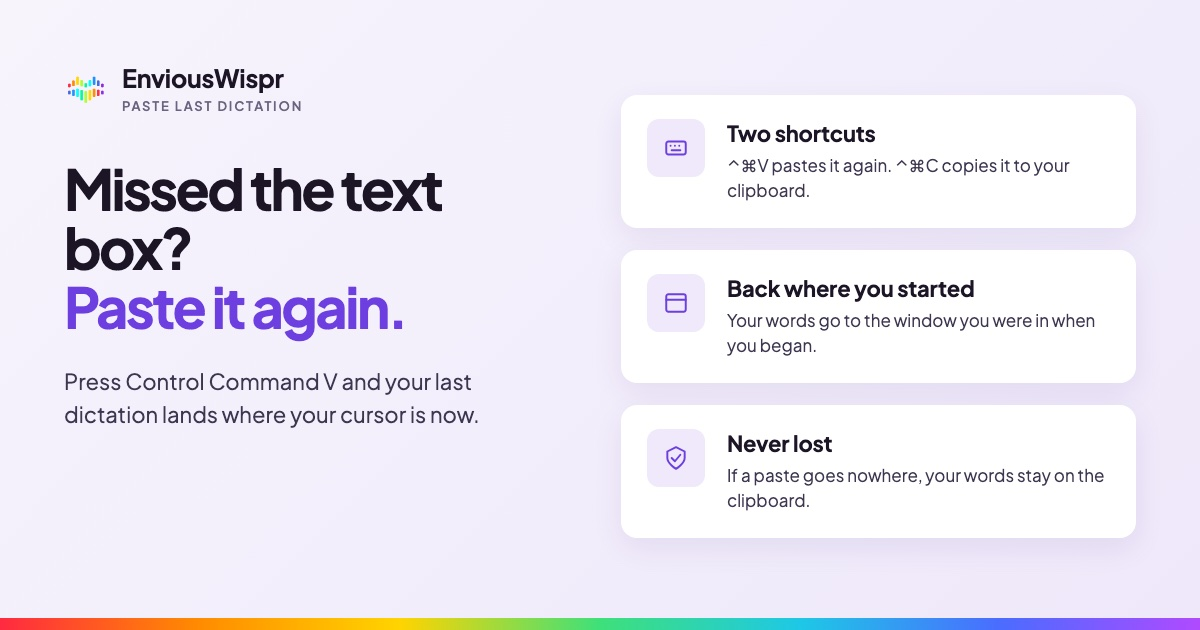
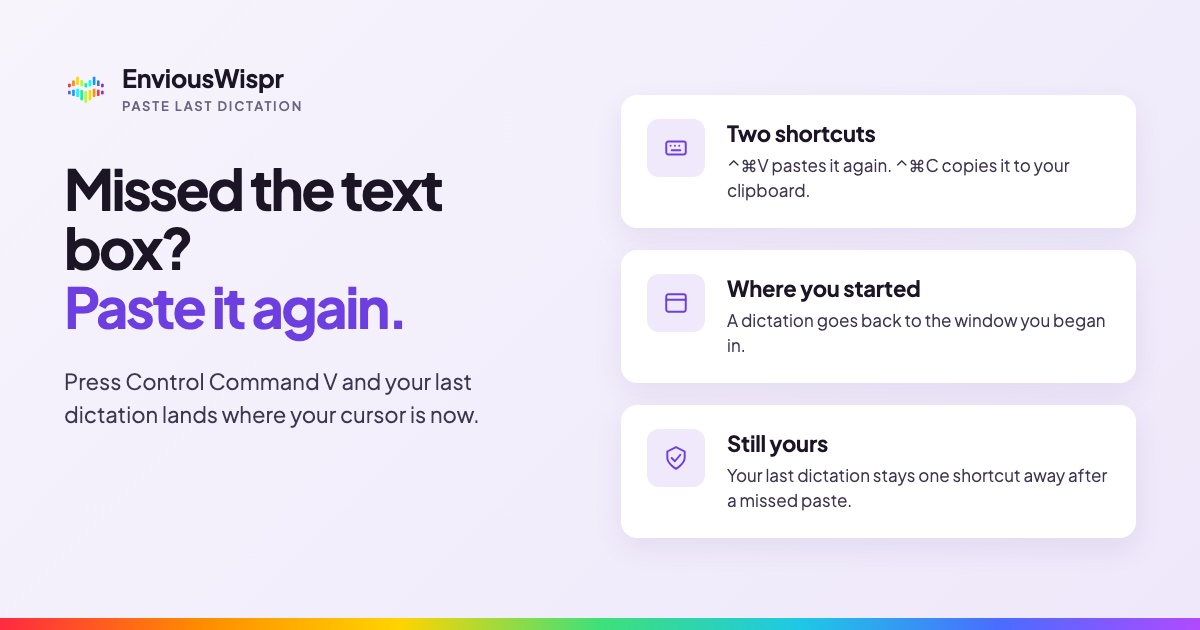
fix(website): every new promise carries the exception its help article states
Codex review round 1 (3 findings) and the kb-content-auditor pass (5 high,
3 low) found one class: a claim stated without the condition the owning
help article attaches to it. All fixed, then the class was swept across
the seven new pages for absolute words (always, every, never, whatever,
any, all, exactly, nothing, whole):

- Paste Last Dictation page: the original delivery goes to the starting
  window; Paste Last Dictation goes where the cursor is now (said
  explicitly). The Copied notice appears when every method fails, and in
  most apps when a miss is visible; some apps hide a miss.
- Pause article: Pause can fall back to Music and Spotify only after a
  macOS update, with a first unpaused take; a volume the user changes
  mid-take stays; some outputs (HDMI) cannot be turned down; Lower makes
  music quieter rather than keeping it out. The unsupported "gentler
  choice" line is gone.
- Paste article: "never lost" and "it is on your clipboard" are scoped;
  History does not save a recording with no speech.
- Smart Formatting page and developer article: spoken number conversion is
  English; addresses, links and codes cover eight more languages.
- Languages page: eight languages, not every language, for local-word
  addresses; WhisperKit is for languages Parakeet does not cover; a name
  at the start of a sentence can still change; the full filler-word
  language list from help/filler-word-removal.md.
[…]

Changed region(s): [[0.5858, 0.4222, 0.925, 0.573], [0.5858, 0.6937, 0.925, 0.8143]]

diff --git a/website/src/data/features/films.js b/website/src/data/features/films.js
@@ -33,7 +33,7 @@ export const SCENES = {
   formatting: [
     { label: 'Versions', title: 'Version numbers, whole.', where: 'On your Mac', raw: 'ship version two point five point zero tonight', out: 'Ship version 2.5.0 tonight.', raw_marks: ['version two point five point zero'], out_marks: ['version 2.5.0'], saved: 'Version number', explain: 'Formatted on your Mac, before any AI polish.' },
     { label: 'Hosts', title: 'Hosts and ports.', where: 'On your Mac', raw: 'the app runs on localhost colon three thousand', out: 'The app runs on localhost:3000.', raw_marks: ['localhost colon three thousand'], out_marks: ['localhost:3000'], saved: 'Host and port', explain: 'Formatted on your Mac, before any AI polish.' },
-    { label: 'Commands', title: 'Slash commands.', where: 'On your Mac', raw: 'type slash clear and start again', out: 'Type /clear and start again.', raw_marks: ['slash clear'], out_marks: ['/clear'], saved: 'Slash command', explain: 'Works with Spoken punctuation on or off.' },
+    { label: 'Commands', title: 'Slash commands.', where: 'On your Mac', raw: 'type slash clear and start again', out: 'Type /clear and start again.', raw_marks: ['slash clear'], out_marks: ['/clear'], saved: 'Slash command', explain: 'Works with Convert spoken punctuation on or off.' },
     { label: 'Dates', title: 'Dates in the format you asked for.', where: 'On your Mac', raw: 'the release is twenty twenty six dash nine dash twenty six', out: 'The release is 2026-09-26.', raw_marks: ['twenty twenty six dash nine dash twenty six'], out_marks: ['2026-09-26'], saved: 'Dashed date', explain: 'Formatted on your Mac, before any AI polish.' },
   ],
   // Languages (2.5.1 What's New): British spelling and addresses said with each

diff --git a/website/src/content/blog/pause-music-while-dictating-mac.md b/website/src/content/blog/pause-music-while-dictating-mac.md
@@ -14,13 +14,13 @@ keywords:
   - "spotify pauses when dictating"
 faqs:
   - question: "Can my Mac pause music automatically while I dictate?"
-    answer: "Yes, with EnviousWispr, a free dictation app for Mac. Open Settings, Microphone, and under Media during dictation choose Pause. Whatever is playing, such as Spotify, Music, a YouTube tab or a podcast app, pauses when you start dictating and resumes when you stop."
+    answer: "Yes, with EnviousWispr, a free dictation app for Mac. Open Settings, Microphone, and under Media during dictation choose Pause. What was playing, such as Spotify, Music, a YouTube tab or a podcast app, pauses when you start dictating and resumes when you stop. If a macOS update turns off the part of macOS it uses for this, Pause falls back to Music and Spotify only, and the Microphone page says so."
   - question: "What is the difference between Lower, Mute and Pause?"
-    answer: "Lower turns your current speakers or headphones down to about half for the whole take and puts the volume back after. Mute silences that output for the take. Pause stops whatever was playing and resumes it when you finish. Continue, the starting choice, leaves your audio alone."
+    answer: "Lower turns your current speakers or headphones down to about half for the whole take and puts the volume back after, unless you changed the volume yourself during the take. Mute silences that output for the take. Pause stops what was playing and resumes it when you finish. Continue, the starting choice, leaves your audio alone."
   - question: "Will Lower or Mute also quiet a video call?"
     answer: "Yes. Lower and Mute act on everything your Mac plays through that output, including a call in progress and spoken feedback from a screen reader. Pause only affects what was playing when you started."
   - question: "Why does background music affect dictation at all?"
-    answer: "If your speakers are playing music, your microphone can pick it up alongside your voice, especially on a laptop's built-in mic. Getting the music out of the way while you talk keeps that sound out of the recording."
+    answer: "If your speakers are playing music, your microphone can pick it up alongside your voice. Pausing or muting the music while you talk keeps that sound out of the recording, and lowering it makes it quieter."
 ---
 
 You are listening to a playlist, you press your dictation key, and you start talking over the chorus. The microphone hears both of you. Or you are wearing headphones and realise halfway through a sentence that you cannot hear yourself think over the podcast.
@@ -34,9 +34,9 @@ Click the EnviousWispr icon in your menu bar, choose **Settings**, and go to **M
 | Choice | What it does while you dictate | When you stop |
 |---|---|---|
 | **Continue** | Leaves your audio playing as it is | Nothing to undo |
-| **Lower** | Turns your current speakers or headphones down to about half | Puts the volume back exactly where it was |
-| **Mute** | Silences your current speakers or headphones | Puts the volume back |
-| **Pause** | Pauses whatever is playing: Spotify, Music, a YouTube tab, a podcast app | Resumes the same song or video |
+| **Lower** | Turns your current speakers or headphones down to about half | Puts the volume back where it was, unless you changed it during the take |
+| **Mute** | Silences your current speakers or headphones | Puts the volume back, unless you changed it during the take |
+| **Pause** | Pauses what is playing: Spotify, Music, a YouTube tab, a podcast app | Resumes the same song or video, if it is still the paused item |
 
 It starts on **Continue**, so nothing changes until you choose another option.
 
@@ -44,7 +44,7 @@ It starts on **Continue**, so nothing changes until you choose another option.
 
 **Pause** suits music and podcasts, where you would rather not miss anything. The same song or episode picks up where it stopped. Only what was playing when you started is paused; anything you start during the dictation keeps going.
 
-**Lower** suits background music you do not mind hearing faintly, and it is a gentler choice when you dictate often in short bursts.
+**Lower** suits background music you do not mind hearing faintly.
 
 **Mute** is the simplest when you want silence and do not care where the music was.
 
@@ -52,7 +52,10 @@ It starts on **Continue**, so nothing changes until you choose another option.
 
 - **Lower and Mute act on the whole output.** They quiet everything your Mac plays through those speakers or headphones, including a call in progress and spoken feedback from a screen reader.
 - **The output is the one in use when you start.** If you switch from speakers to headphones halfway through a dictation, the new output is not lowered or muted.
-- **It keeps sound out of your recording.** On a laptop's built-in microphone, music from the speakers can end up in the recording alongside your voice. Pausing or lowering it while you talk keeps that sound out.
+- **Your own volume change wins.** If you change the volume yourself during a take, your new level stays. EnviousWispr only puts the volume back when it is still at the level it set.
+- **Pause can fall back to Music and Spotify.** Pause reaches every player through a part of macOS that Apple has not opened up to apps. If a macOS update turns that off, EnviousWispr falls back to pausing Music and Spotify only, and the Microphone page says so. On that fallback, macOS asks the first time whether EnviousWispr may control Music or Spotify; that first take is not paused, and every take after you allow it is.
+- **Some outputs cannot be turned down.** A display over HDMI, for example, does not let apps change its volume. The Microphone page tells you when Lower or Mute is not available on your current output.
+- **It helps keep music out of your recording.** Music from your speakers can end up in the recording alongside your voice. Pause and Mute keep it out; Lower makes it quieter.
 
 ## Other things that help a clean recording
 

diff --git a/website/src/content/blog/british-spelling-dictation-mac.md b/website/src/content/blog/british-spelling-dictation-mac.md
@@ -16,7 +16,7 @@ faqs:
   - question: "How do I get British spelling from dictation on a Mac?"
     answer: "In EnviousWispr, a free dictation app for Mac, open Settings, Transcription, Language, switch off Auto-detect language, click Change and choose English (UK). Your next dictation writes colour, centre and organise instead of the American spellings."
   - question: "Why does my speech-to-text app spell colour as color?"
-    answer: "The speech engines EnviousWispr runs, Parakeet and WhisperKit, both write English with American spelling. They hear you correctly; the spelling is the one they learned. A separate step after transcription is what turns it into British spelling."
+    answer: "The speech engines EnviousWispr runs, Parakeet and WhisperKit, both write English with American spelling. They hear you correctly and spell the word the American way. A separate step after transcription is what turns it into British spelling."
   - question: "Does British spelling still work with AI polish on?"
     answer: "Yes. EnviousWispr changes the spelling before AI polish runs and checks it again after, which catches American spelling that a polish model puts back. It works with polish on or off, and in Transcribe a File too."
   - question: "Which words does it leave alone?"
@@ -29,9 +29,9 @@ This post explains why that happens and how to make dictation on your Mac write 
 
 ## Why dictation writes American spelling
 
-Modern speech engines learn to write from huge amounts of text, and most of that text uses American spelling. So when you say "colour", the engine hears the word perfectly and then writes the spelling it has seen most often: "color".
+Both speech engines write English with American spelling. When you say "colour", the engine hears the word correctly and writes "color", most likely because American spelling dominates the text such models learn from.
 
-The two engines EnviousWispr runs on your Mac, Parakeet and WhisperKit, both behave this way. Your accent has nothing to do with it. A speaker from Leeds and a speaker from Boston get the same spelling, because the spelling is a writing habit, not a listening one. The spelling differences themselves are well documented; [Wikipedia's page on them](https://en.wikipedia.org/wiki/American_and_British_English_spelling_differences) is a good overview.
+The two engines EnviousWispr runs on your Mac, Parakeet and WhisperKit, both behave this way. Your accent has nothing to do with it. A speaker from Leeds and a speaker from Boston get the same spelling, because the spelling comes from the engine, not from your voice. The spelling differences themselves are well documented; [Wikipedia's page on them](https://en.wikipedia.org/wiki/American_and_British_English_spelling_differences) is a good overview.
 
 ## How to switch to British spelling
 
@@ -51,7 +51,7 @@ The conversion covers the everyday spelling families: -our words (colour, favour
 |---|---|
 | AI polish is on | Spelling is changed before polish and checked again after, so a polish model cannot quietly put "color" back |
 | A word whose spelling depends on meaning | Left as you said it: program, check, practice, license, meter, story and tire |
-| A name in the middle of a sentence | Kept as written, so "Kennedy Center" stays "Center" |
+| A name in the middle of a sentence | Kept as written, so "Kennedy Center" stays "Center" (a name at the very start of a sentence can still change) |
 | A word in your Custom Words | Kept exactly as you saved it |
 | Vocabulary | Unchanged: "apartment" stays "apartment", it does not become "flat" |
 | Auto-detect is on | American spelling, because British spelling needs English (UK) chosen |
@@ -68,4 +68,4 @@ British spelling is one part of a wider set of language options. Parakeet recogn
 
 ## The takeaway
 
-Dictation writes American spelling because that is what speech engines learned, not because of how you speak. Choose English (UK) as your dictation language in EnviousWispr and it writes colour, centre and organise from the first word, including when AI polish is cleaning up the text.
+Dictation writes American spelling because that is how the speech engines spell English, not because of how you speak. Choose English (UK) as your dictation language in EnviousWispr and it writes colour, centre and organise from the first word, including when AI polish is cleaning up the text.

diff --git a/website/src/content/blog/dictation-pasted-nowhere-get-your-words-back.md b/website/src/content/blog/dictation-pasted-nowhere-get-your-words-back.md
@@ -14,7 +14,7 @@ keywords:
   - "get dictation back mac"
 faqs:
   - question: "Where did my dictation go if nothing appeared on screen?"
-    answer: "In EnviousWispr, a free dictation app for Mac, a dictation that could not be delivered is left on your clipboard, and a notice reading Copied. Press ⌘V to paste appears. Click into a text box and press Command V. Every dictation is also kept in History on your Mac, so it is never lost."
+    answer: "In EnviousWispr, a free dictation app for Mac, a dictation that could not be delivered is usually left on your clipboard, with a notice reading Copied. Press ⌘V to paste. Click into a text box and press Command V. Your dictations are also saved in History on your Mac, and Control Command V pastes the newest one again wherever your cursor is."
   - question: "How do I paste my last dictation again?"
     answer: "Click where the text belongs and press Control Command V, or choose Paste Last Dictation from the EnviousWispr menu bar menu. Your newest dictation is pasted where your cursor is now. Control Command C copies it to the clipboard instead."
   - question: "Why did my dictation paste into a different window than the one I was looking at?"
@@ -43,15 +43,15 @@ That covers most cases, but a few still leave the text with nowhere to go:
 - **The window closed.** You started in a chat window and closed it before the text was ready. EnviousWispr does not guess and paste into a different window instead.
 - **The app refused the text.** Some apps block typed input. EnviousWispr tries three ways to deliver: writing into the text box directly, a normal paste, and the app's own Edit, Paste menu.
 
-In each of those cases your words are put on the clipboard and a notice appears: **Copied. Press ⌘V to paste.** Nothing has been thrown away.
+When every delivery method fails, your words are put on the clipboard and a notice appears: **Copied. Press ⌘V to paste.** In most apps EnviousWispr does the same when it can see that a paste went nowhere, for example when no text box was selected. Some apps do not show enough about where your cursor is for it to tell, so a missed paste there shows nothing; your words are still in History, and Paste Last Dictation brings them back.
 
 ## Three ways to get the words back
 
 **1. Paste Last Dictation.** Click where the text belongs and press Control Command V. This is the fastest route, and it works even if you have copied something else since.
 
-**2. Paste from the clipboard.** If you saw the Copied notice and have not copied anything since, Command V works too.
+**2. Paste from the clipboard.** If you saw the Copied notice and have not copied anything since, Command V works too. If there was no notice, your clipboard may hold what you copied before, so use Paste Last Dictation instead.
 
-**3. Open History.** EnviousWispr saves every dictation on your Mac in History. Click the EnviousWispr icon in your menu bar, choose **Settings**, go to **History**, find the dictation, and copy or paste it from there. History is also where a cancelled recording can be kept, which is covered in the [History feature page](/features/history/).
+**3. Open History.** EnviousWispr saves your dictations on your Mac in History (a recording with no speech in it is not saved). Click the EnviousWispr icon in your menu bar, choose **Settings**, go to **History**, find the dictation, and copy or paste it from there. History is also where a cancelled recording can be kept, which is covered in the [History feature page](/features/history/).
 
 ## Saying it once, using it twice
 
@@ -71,6 +71,6 @@ Open **System Settings, Privacy & Security, Accessibility**, find EnviousWispr, 
 
 ## The takeaway
 
-A dictation that lands nowhere is not lost. It is on your clipboard, in your History, and one shortcut away. Click where it belongs and press Control Command V.
+A dictation that lands nowhere is not lost. It is usually on your clipboard, it is saved in your History, and it is one shortcut away. Click where it belongs and press Control Command V.
 
 If you want to see the feature on its own page, the [Paste Last Dictation page](/features/paste-last-dictation/) shows both shortcuts, and [How Text Gets Pasted Into Your App](/help/how-text-gets-pasted-into-your-app/) explains where every dictation is delivered and why.

diff --git a/website/src/content/blog/dictate-version-numbers-ports-slash-commands-mac.md b/website/src/content/blog/dictate-version-numbers-ports-slash-commands-mac.md
@@ -20,7 +20,7 @@ faqs:
   - question: "How do I dictate a slash command such as /clear?"
     answer: "Say \"slash clear\" and you get /clear, even with Convert spoken punctuation switched off. \"command is slash wfp\" gives command is /wfp, with the space kept. Ordinary phrases like \"slash the budget\" stay as words, though some verb uses such as \"slash prices\" can still become a symbol."
   - question: "Is this formatting done in the cloud?"
-    answer: "No. The formatting is a step that runs on your Mac before any AI polish, on every dictation. Transcription runs on your Mac too. Text leaves your Mac only if you choose a cloud polish provider under your own key, and then it goes directly to that provider."
+    answer: "No. The formatting is a step that runs on your Mac before any AI polish, automatically. Transcription runs on your Mac too. Text leaves your Mac only if you choose a cloud polish provider under your own key, and then it goes directly to that provider."
 ---
 
 Dictating prose is easy now. Dictating the things developers actually type between sentences is harder: a version number, a local server address, a slash command for a chat tool, a date in the format your logs use. Say "version two point five point zero" and dictation often hands the words back, spelled out, for you to fix by hand.
@@ -77,6 +77,6 @@ Formatting covers the shape of technical text. The names in it, like the build t
 
 ## Where it runs
 
-All of this formatting happens on your Mac, before any AI polish, on every dictation. If polish is off or fails, the formatted text is what gets pasted. Transcription runs on your Mac too, so your voice stays there. Text leaves your Mac only if you pick a cloud polish provider under your own key, and then it goes directly to that provider.
+All of this formatting happens on your Mac, before any AI polish, automatically. The spoken-number examples here are for English dictation; addresses, links and codes said with local words also work in French, Spanish, Polish, Dutch, German, Russian, Portuguese and Italian. If polish is off or fails, the formatted text is what gets pasted. Transcription runs on your Mac too, so your voice stays there. Text leaves your Mac only if you pick a cloud polish provider under your own key, and then it goes directly to that provider.
 
 For the feature at a glance, see the [Smart Formatting page](/features/smart-formatting/). If you dictate pull request descriptions and review comments, [Dictation for Developers](/blog/dictation-for-developers-code-reviews/) covers that workflow.
